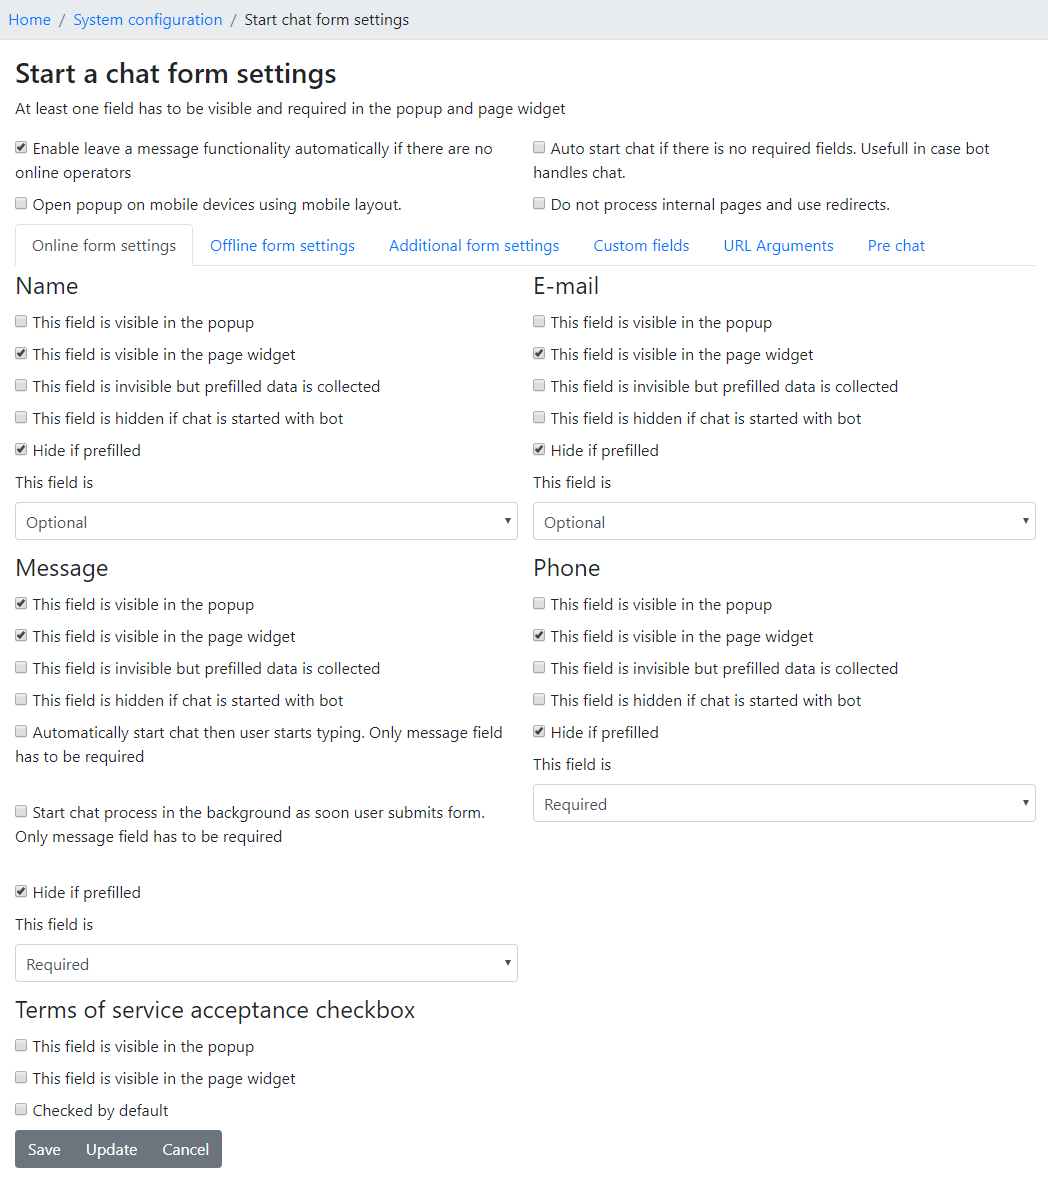
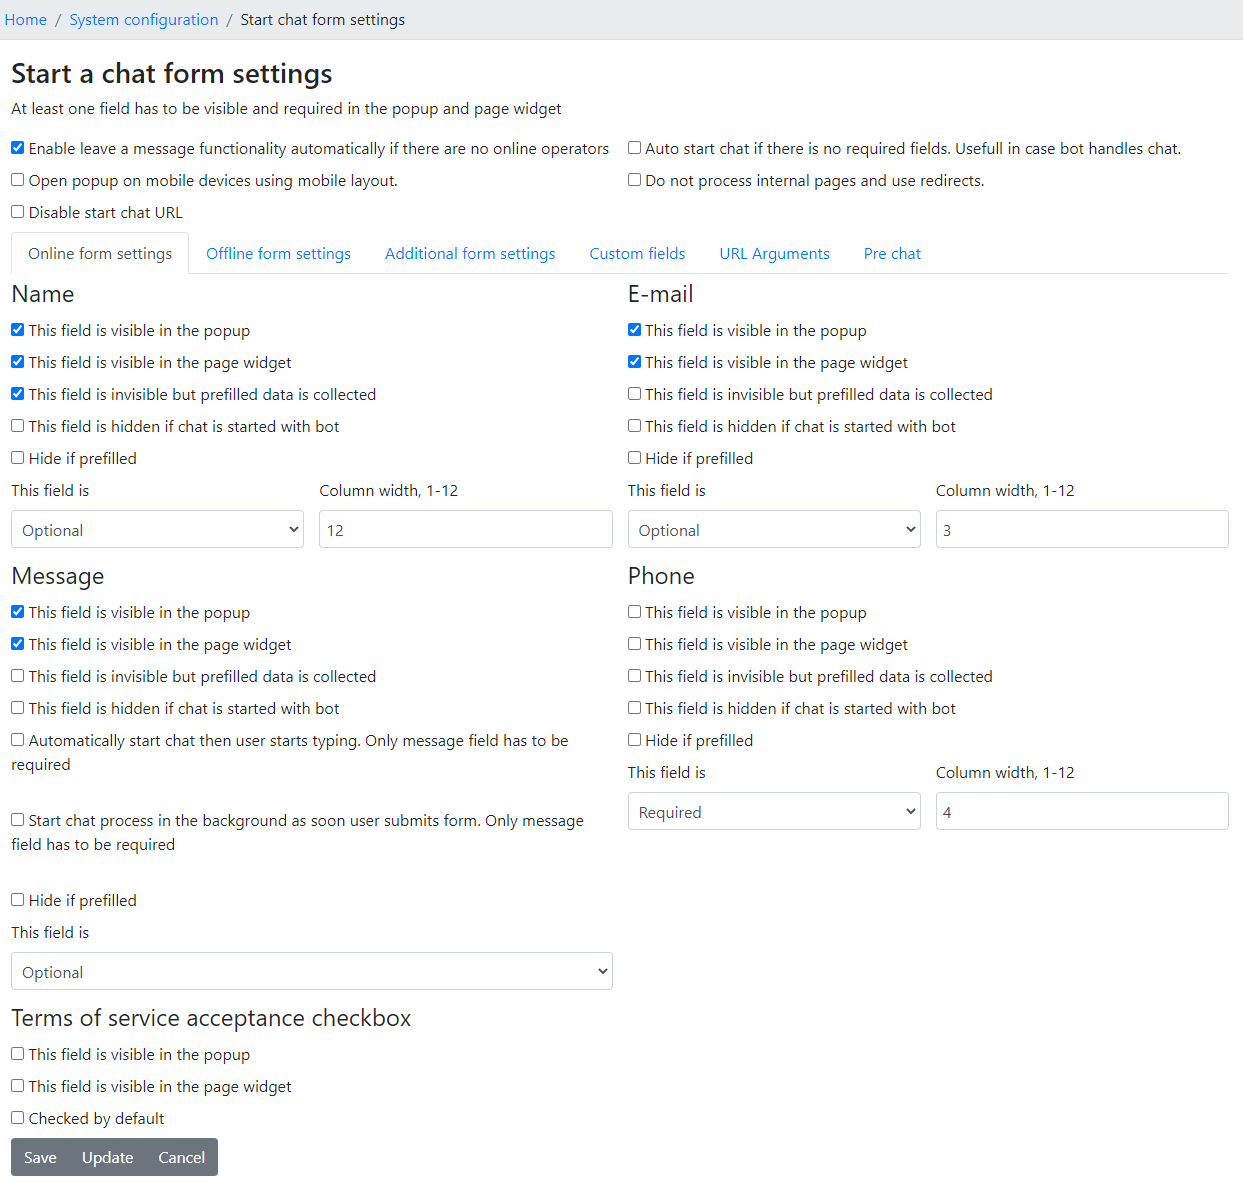
Updates

diff --git a/docs/chat/start-chat-form-settings.md b/docs/chat/start-chat-form-settings.md
@@ -22,7 +22,7 @@ It's possible to develop that once you change department start chat settings fie
 
 This is the main window of start chat form settings page.
 
-![Start chat form settings](/img/chat/start-chat-form-settings.png)
+![Start chat form settings](/img/chat/start-chat-form-settings.png?v=1)
 
 ## Attributes definition
 
@@ -41,6 +41,20 @@ Usefull if you want to start chat as soon visitor opens a widget. You should not
 ### Do not process internal pages and use redirects.
  
 Not used in new widget anymore. Effects only old widget.
+ 
+### Disable start chat URL
+
+If you do not want to allow visitors start chat directly by typing `lhc_web/index.php` url you can check this checkbox. It will disable this form.
+
+Another way to disable this is just edit `settings.ini.php` file and change
+
+```php
+'default_url' => 
+    array (
+      'module' => 'chat', // change to 'user'
+      'view' => 'start', // change to 'login'
+    ),
+```  
  
 ## Define custom fields for online mode
 
